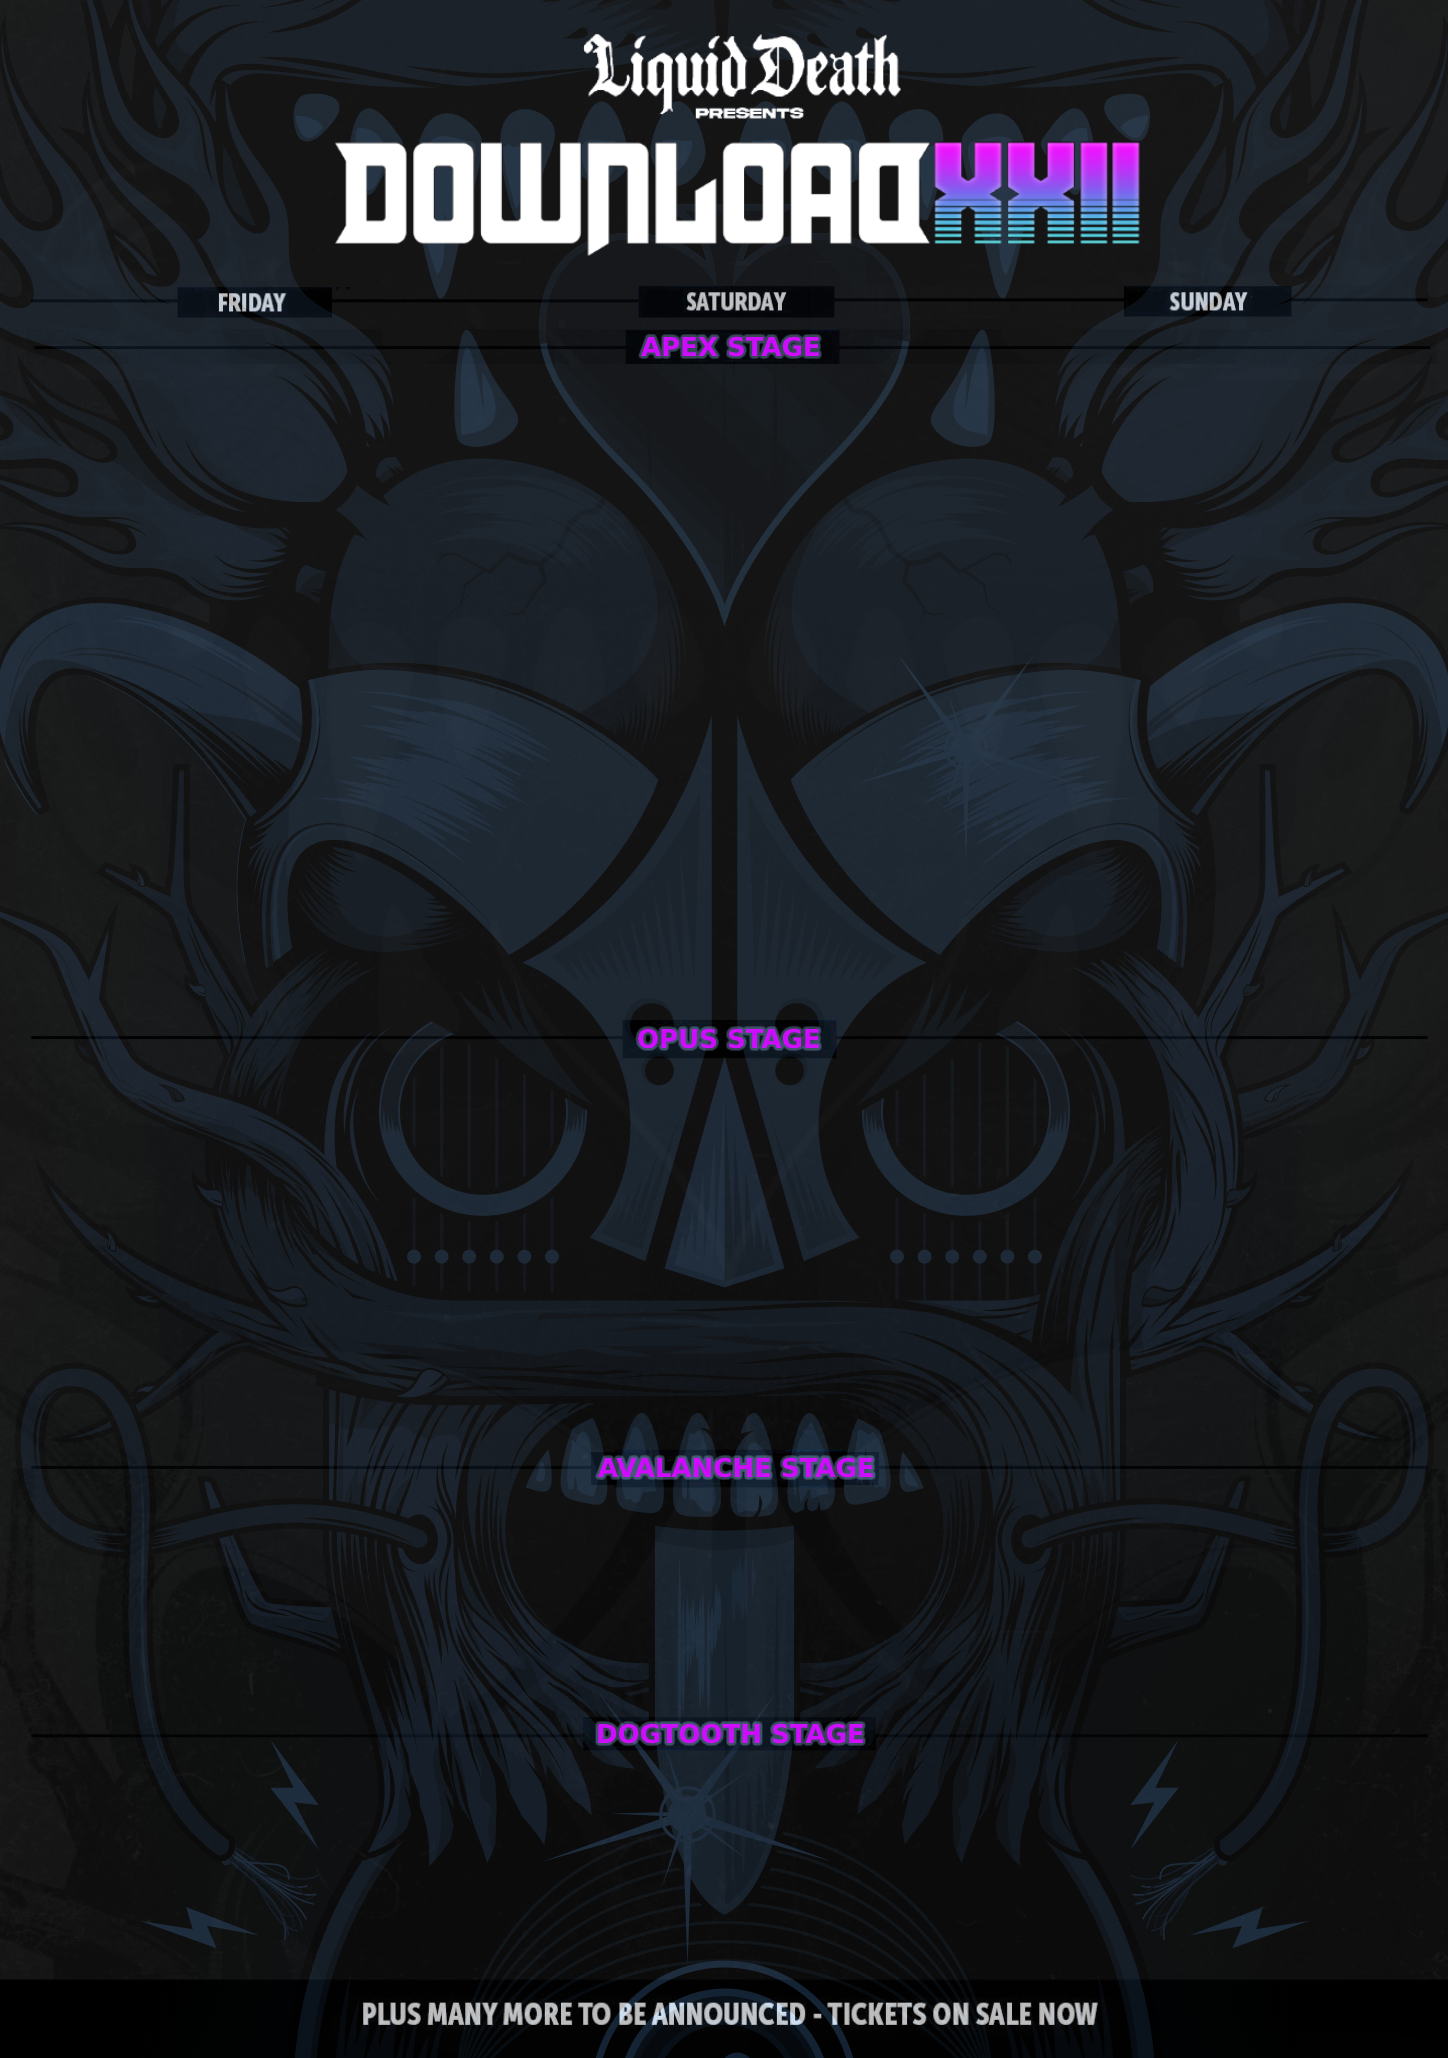
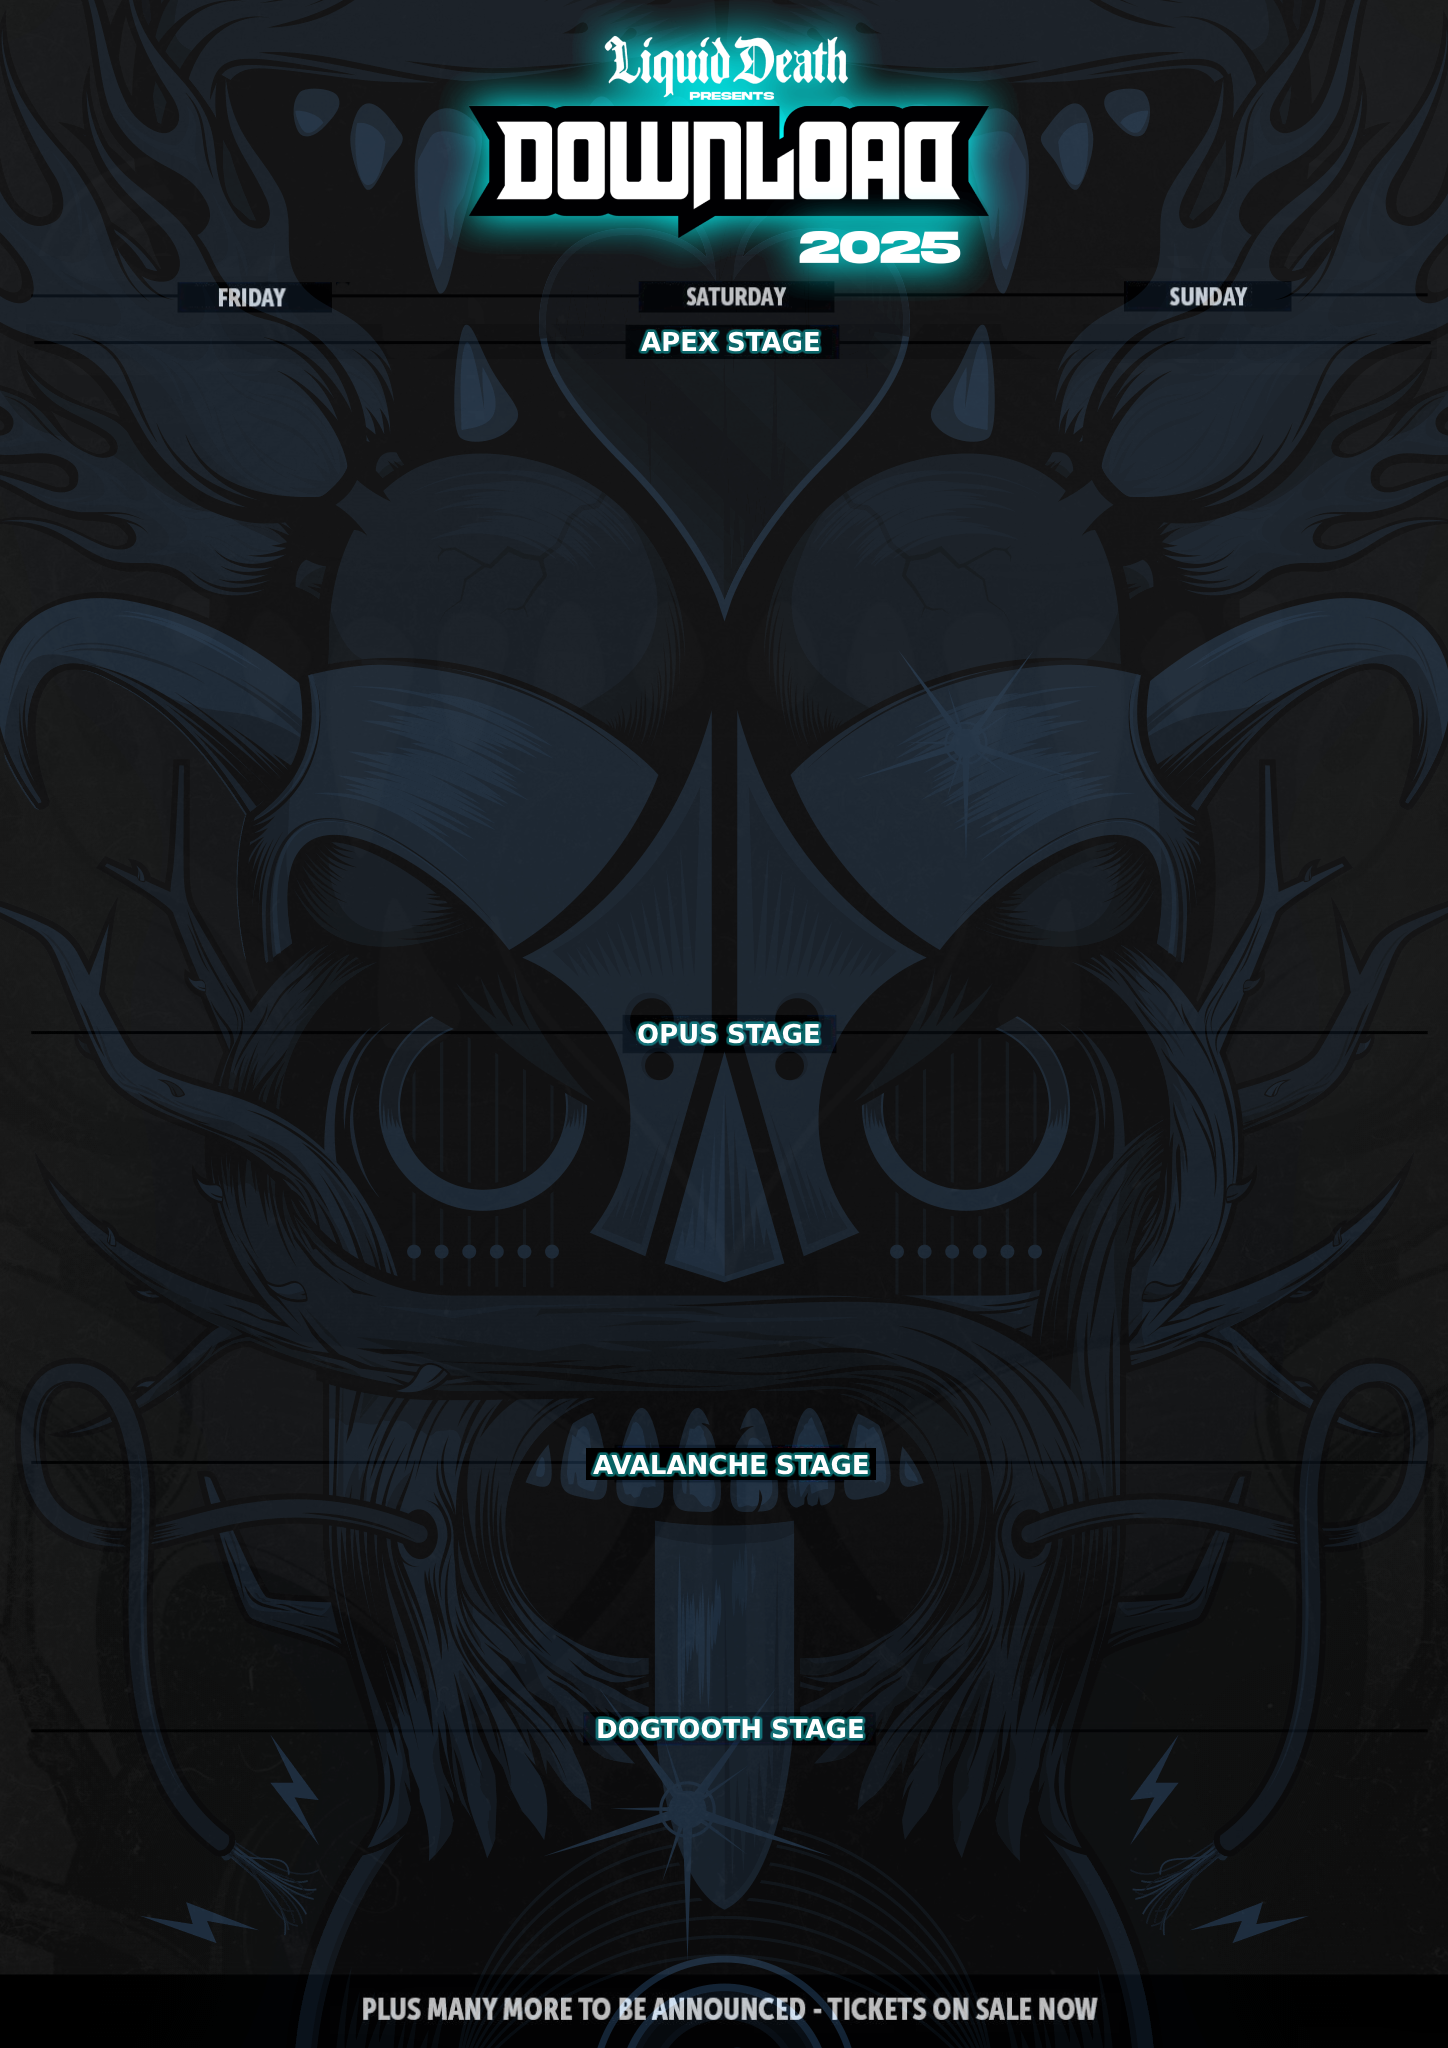
add a footer, update to 2025 styles

diff --git a/src/components/Footer.vue b/src/components/Footer.vue
@@ -1,0 +1,69 @@
+<template>
+  <div class="footer">
+    <a href="https://ko-fi.com/benjicwood" target="_blank">
+        <img class="kofi-link" src="../assets/icons/kofi_button_dark.png" alt="kofi">
+    </a>
+    <a href="https://benjicwood.github.io/2000trees-poster-creator/" target="_blank">
+        <img class="trees-link" src="../assets/icons/trees.png" alt="2000trees">
+    </a>
+    <a href="https://www.instagram.com/benjicwood/" target="_blank">
+        <img class="insta-link" src="../assets/icons/insta_dark.png" alt="kofi">
+    </a>
+  </div>
+</template>
+
+<script>
+// import BandGrid from "./BandGrid.vue"
+// import SidePanel from "./SidePanel.vue";
+// import kofiLogo from "../assets/icons/kofi.png"
+
+export default {
+  name: 'Footer',
+//   components: {
+//   },
+//   props: {
+//     msg: String
+//   }
+}
+</script>
+
+<!-- Add "scoped" attribute to limit CSS to this component only -->
+<style scoped style="scss">
+
+.footer {
+    background-color: #0B7C7D;
+    border-top: 1px solid black;
+    position: relative;
+    bottom: 0;
+    left: 0;
+    width: 100%;
+    color: white; /* Optional: For text readability */
+    padding: 4px; /* Optional: Adjust the padding as needed */
+    z-index: 1000; /* Optional: Ensure it stays on top of other elements */
+    min-width: 709px;
+    /* display: flex;
+    gap: 10px; */
+}
+
+.kofi-link {
+    height: 40px;
+    padding: 4px;
+}
+
+.trees-link {
+    height: 40px;
+    padding: 4px;
+    border-radius: 10px;
+}
+
+.insta-link {
+    height: 40px;
+    padding: 4px;
+    border-radius: 10px;
+}
+
+.icon {
+    padding: 4px;
+}
+
+</style>

diff --git a/src/components/MobileWarning.vue b/src/components/MobileWarning.vue
@@ -1,0 +1,40 @@
+<template>
+    <div class="mobile-only warning-box">
+        <p>Note: This is best used on Desktop</p>
+    </div>
+</template>
+
+<script>
+// import BandGrid from "./BandGrid.vue"
+// import SidePanel from "./SidePanel.vue";
+// import kofiLogo from "../assets/icons/kofi.png"
+
+export default {
+  name: 'MobileWarning',
+}
+</script>
+
+<style scoped style="scss">
+/* Hide the class by default */
+.mobile-only {
+    display: none;
+}
+
+.warning-box {
+    background-color: #0B7C7D;
+    color: white;
+    text-align: center;
+    padding: 10px;
+    font-size: 20px;
+    font-family: 'PT Sans Narrow', sans-serif;
+    min-width: 696px;
+    border-top: 1px solid black;
+}
+
+/* Show the class on mobile screens (max-width of 768px) */
+@media (max-width: 668px) {
+    .mobile-only {
+        display: block; /* Change to inline or flex if needed */
+    }
+}
+</style>

diff --git a/src/App.vue b/src/App.vue
@@ -1,14 +1,20 @@
 <template>
-  <DownloadFourDays msg="Welcome to Your Vue.js App"/>
+  <DownloadThreeDays msg="Welcome to Your Vue.js App"/>
+  <Footer />
+  <MobileWarning />
 </template>
 
 <script>
-import DownloadFourDays from './components/DownloadFourDays'
+import DownloadThreeDays from './components/DownloadThreeDays'
+import Footer from './components/Footer'
+import MobileWarning from './components/MobileWarning'
 
 export default {
   name: 'App',
   components: {
-    DownloadFourDays
+    DownloadThreeDays,
+    Footer,
+    MobileWarning,
   }
 }
 </script>
@@ -25,4 +31,6 @@ export default {
 body {
   margin: 0 !important;
 }
+
+
 </style>

diff --git a/public/index.html b/public/index.html
@@ -20,11 +20,12 @@
     </noscript>
     <div id="app"></div>
     <!-- built files will be auto injected -->
-    <!-- <script>
+    <!-- <script src='https://storage.ko-fi.com/cdn/scripts/overlay-widget.js'></script>
+    <script>
       kofiWidgetOverlay.draw('benjicwood', {
         'type': 'floating-chat',
-        'floating-chat.donateButton.text': 'Support me',
-        'floating-chat.donateButton.background-color': '#d9534f',
+        'floating-chat.donateButton.text': 'Contact on Insta',
+        'floating-chat.donateButton.background-color': '#323842',
         'floating-chat.donateButton.text-color': '#fff'
       });
     </script> -->

diff --git a/src/components/DownloadThreeDays.vue b/src/components/DownloadThreeDays.vue
@@ -10,7 +10,7 @@ import BandGrid from "./BandGrid.vue"
 import SidePanel from "./SidePanel.vue";
 
 export default {
-  name: 'DownloadFourDays',
+  name: 'DownloadThreeDays',
   components: {
     BandGrid,
     SidePanel,
@@ -25,7 +25,7 @@ export default {
 <style scoped style="scss">
 
 .download-four-day {
-  background-color: #6b1780;
+  background-color: #233140;
   background-image: url(../assets/download2025.png);
   background-size: contain;
   background-repeat: no-repeat;
